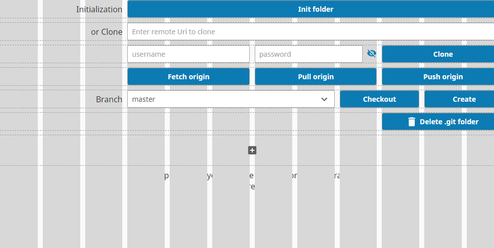
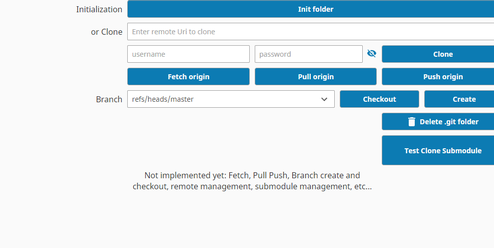
improve support for submodule

diff --git a/readme.md b/readme.md
@@ -1,5 +1,5 @@
 # Ignition Source Control Management Project
-The goal of this project is to be able to manage and version Ignition Source
+The goal of this project is to be able to manage and version Ignition's projects source files
 
 ## Task
 - [x]  Find Ignition data directory
@@ -7,9 +7,15 @@ The goal of this project is to be able to manage and version Ignition Source
 - [x]  Custom commit message
 - [x]  Commit by project
 - [x]  Ignition Project Readme.md creator/editor
-- [ ]  Projects folder remote setup
+- [x]  Projects folder remote setup
+- [ ]  Fetch, Pull and Push
+- [ ]  Branch management
+- [ ]  Commit history view
+- [ ]  Rollback/Reset/Revert
 - [ ]  Add project as Submodule
+- [ ]  Submodule management
 - [ ]  Default Commit message
 - [ ]  Link to Azure DevOps
   - Work items
   - Pull requests
+  - etc...
